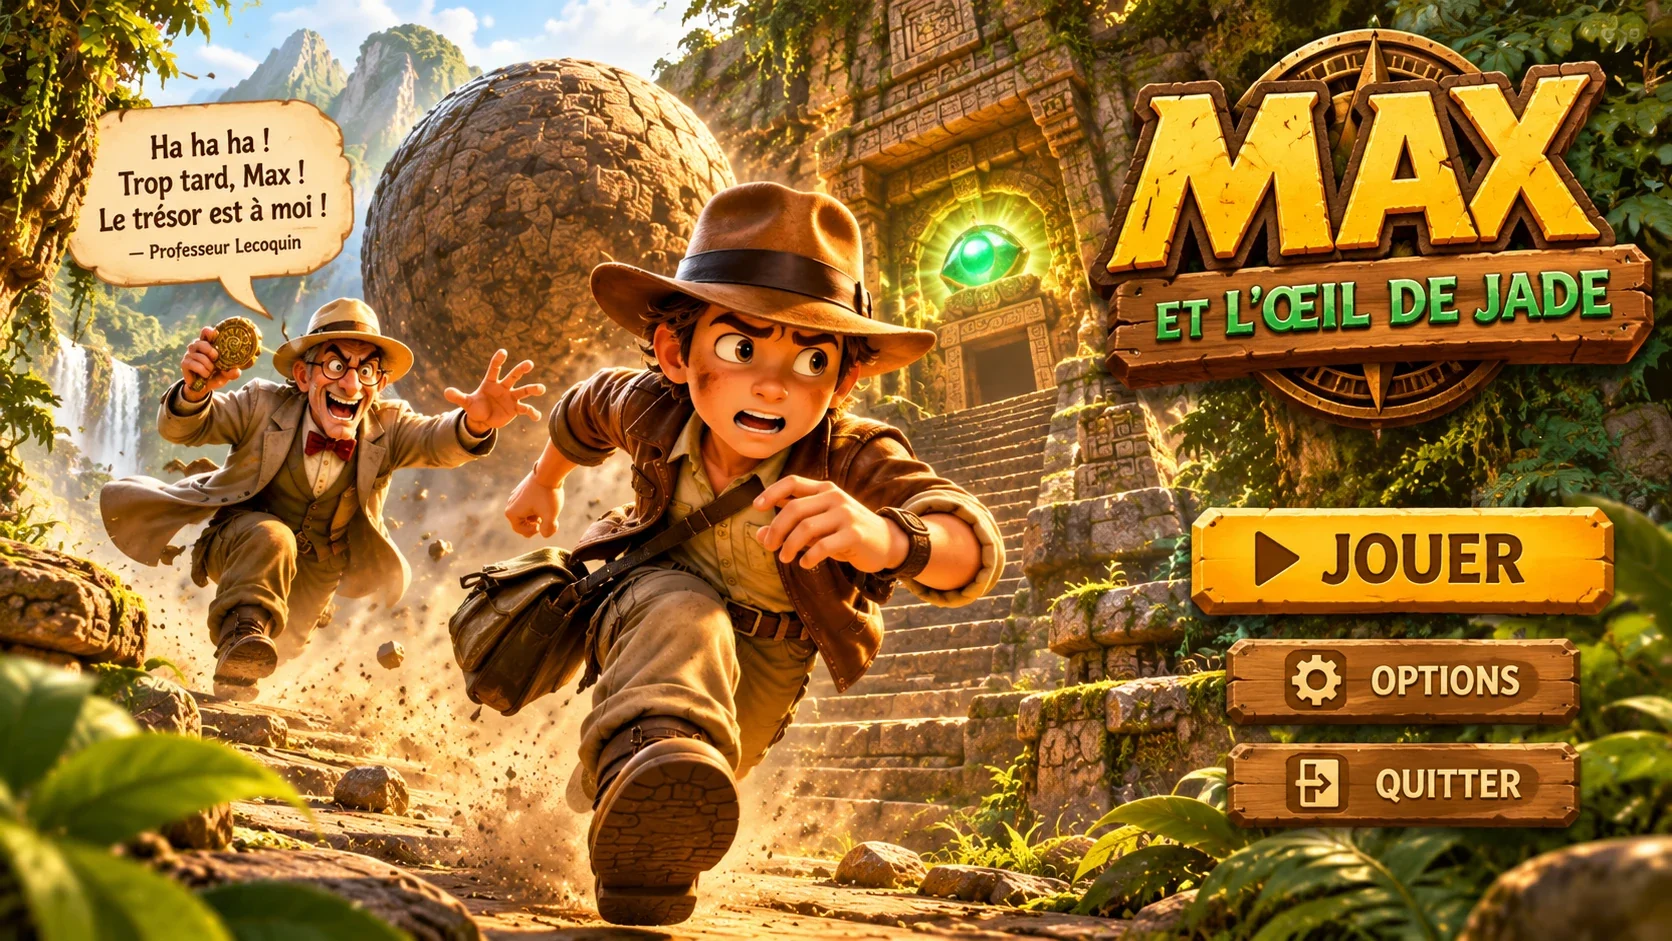
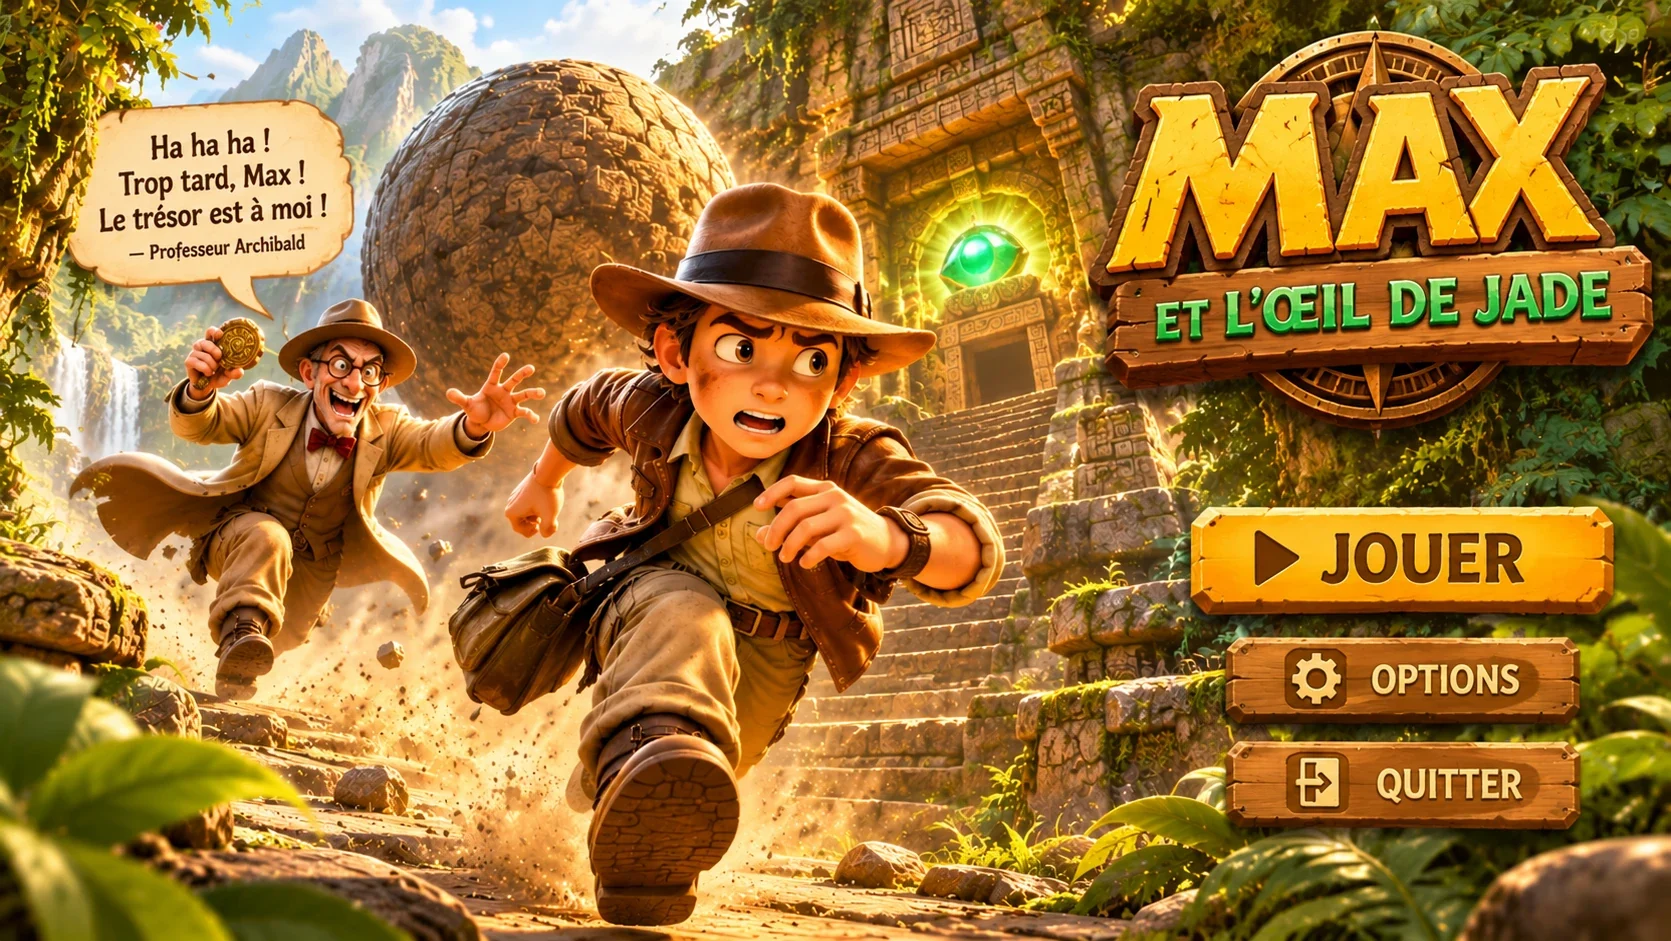
Affiche d'accueil avec le professeur Archibald, chapeau de feutre en jeu
- nouvelle image d'accueil (bulle signée « Professeur Archibald »)
- le sprite d'Archibald porte un chapeau de feutre beige, comme sur l'affiche

Claude-Session: https://claude.ai/code/session_01EsLRrCt2WANFcGKCwS7277

diff --git a/jeu/game.js b/jeu/game.js
@@ -1422,7 +1422,7 @@
     ctx.globalAlpha = 1;
   }
 
-  // Professeur Archibald : casque colonial kaki, lunettes rondes, nœud papillon rouge, veste beige
+  // Professeur Archibald : chapeau de feutre beige, lunettes rondes, nœud papillon rouge, veste beige
   function drawRival(r) {
     const run = r.state === "run";
     const ph = run ? Math.sin(r.t * 0.6) : 0, bob = run ? Math.abs(ph) : Math.sin(r.t / 10) * 0.4;
@@ -1449,14 +1449,14 @@
     ctx.strokeStyle = "#2a1a10"; ctx.lineWidth = 0.7;
     ctx.beginPath(); ctx.arc(7.6, 2.2, 1.2, 0, Math.PI * 2); ctx.stroke();
     ctx.fillStyle = "#2a1a10"; ctx.fillRect(7.3, 1.9, 0.8, 0.8);
-    // casque colonial : dôme kaki, bandeau sombre, large bord tout autour
-    ctx.fillStyle = "#b5a06c";
-    ctx.beginPath(); ctx.ellipse(6, 0.4, 7.2, 1.6, 0, 0, Math.PI * 2); ctx.fill();       // bord
-    ctx.fillStyle = "#d9c48e";
-    ctx.beginPath(); ctx.ellipse(6, -0.4, 4.6, 4.3, 0, Math.PI, 0); ctx.fill();          // dôme
-    ctx.fillStyle = "#f0e2b4"; ctx.fillRect(3.6, -3.4, 2, 1);                           // reflet
-    ctx.fillStyle = "#6b5236"; ctx.fillRect(1.4, -1.2, 9.2, 1);                          // bandeau
-    ctx.fillStyle = "#8c7a4c"; ctx.fillRect(5.6, -4.9, 0.9, 0.9);                        // bouton du dessus
+    // chapeau de feutre beige à large bord, ruban brun (comme sur l'affiche)
+    ctx.fillStyle = "#b39a6a";
+    ctx.beginPath(); ctx.ellipse(6, 0.6, 7.4, 1.5, -0.05, 0, Math.PI * 2); ctx.fill();          // bord
+    ctx.fillStyle = "#cdb688";
+    ctx.beginPath(); ctx.moveTo(2.2, 0.4); ctx.lineTo(2.8, -3.6); ctx.quadraticCurveTo(6, -5.2, 9.2, -3.6); ctx.lineTo(9.8, 0.4); ctx.closePath(); ctx.fill(); // calotte
+    ctx.fillStyle = "#9c8457"; ctx.fillRect(5.4, -4.6, 1.4, 1);                                   // creux du dessus
+    ctx.fillStyle = "#6b4a2a"; ctx.fillRect(2.4, -1.1, 7.2, 1.2);                                 // ruban
+    ctx.fillStyle = "#e4d3a8"; ctx.fillRect(3.4, -3.2, 1.6, 0.8);                                 // reflet
     ctx.restore();
   }
 

diff --git a/jeu/index.html b/jeu/index.html
@@ -127,8 +127,8 @@
     filter: blur(24px) brightness(.45) saturate(1.1);
   }
   .affiche {
-    position: relative; aspect-ratio: 1672 / 941;
-    width: min(100vw, 100vh * 1672 / 941); width: min(100vw, 100dvh * 1672 / 941);
+    position: relative; aspect-ratio: 1671 / 941;
+    width: min(100vw, 100vh * 1671 / 941); width: min(100vw, 100dvh * 1671 / 941);
     max-width: 100%; box-shadow: 0 0 40px rgba(0,0,0,.6);
   }
   .affiche img { display: block; width: 100%; height: 100%; -webkit-user-drag: none; }
